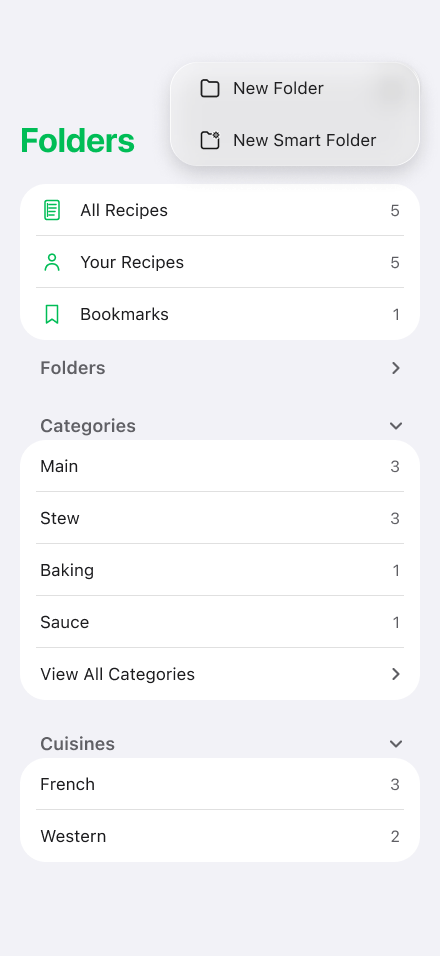
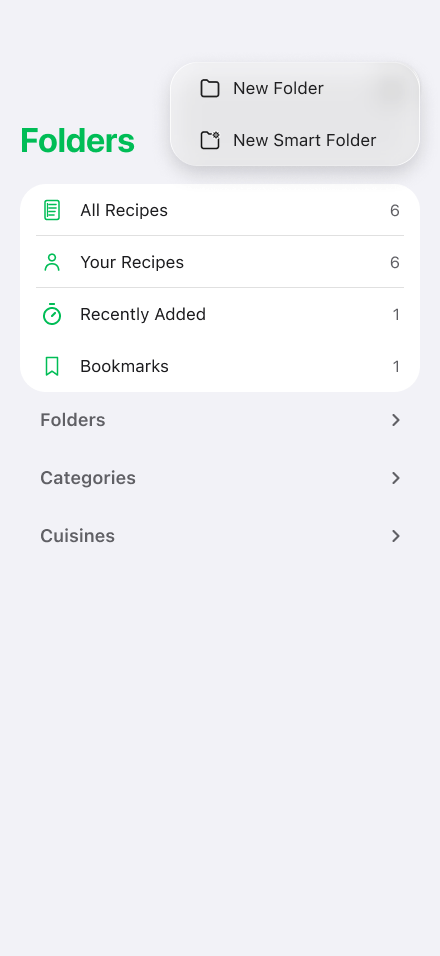
docs(#10): WAVE14b Folders MenuOpen Recently Added + collapsed accordion
QA FAIL fix: restore 4-row system list, stack ys 0/52/104/156, hide
expanded groups, ChevronRight disclosures; refresh evidence PNGs.

diff --git a/.cursor/walkthrough-artifacts/issue10-missing-ref-ui/parallel/WAVE14-trailing-notab-sweep.md b/.cursor/walkthrough-artifacts/issue10-missing-ref-ui/parallel/WAVE14-trailing-notab-sweep.md
@@ -45,6 +45,16 @@ Explicit no-tab confirms (no `Bottom Chrome` / `Four Tab` nodes, or hidden):
 - `WAVE14-recipe-menu-notab.png` — Recipe Menu, no tab
 - `WAVE14-list-menu.png` — List Menu, no tab
 
+## MenuOpen fidelity follow-up (QA FAIL → fixed)
+
+`State=MenuOpen` was missing **Recently Added**, used 3-row counts (5/5/1), and left Categories/Cuisines expanded. Aligned to Pestle `folders-home-menu-open.jpg` (minus tab):
+
+- All Recipes Group: All / Your / Recently Added / Bookmarks (6/6/1/1), row ys `0/52/104/156`
+- Categories + Cuisines groups hidden; section disclosures → ChevronRight; ys 408/466/524
+- Same Recently Added row + stack fix applied to FoldersExpanded / CategoriesExpanded / CuisinesExpanded
+
 ## Note vs Pestle stills
 
 `docs/ui-screenshots/folders-home*.jpg` still show a Pestle tab bar. **Owner override**: Folders (and menu overlays) must **not** show tab chrome in the Interaction Tree.
+
+Dark appearance: Interaction Tree page is **White Theme** only — dark chrome certification is out of scope for this wave (Glass / Top Button kit already carries light glass recipe).
